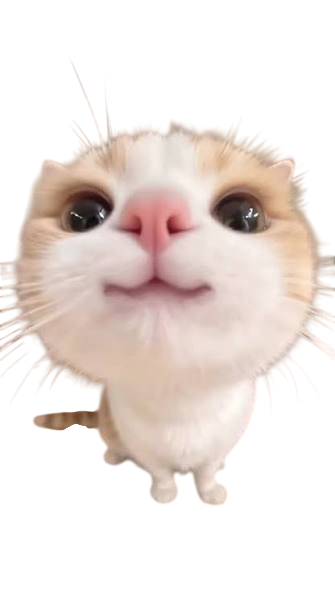
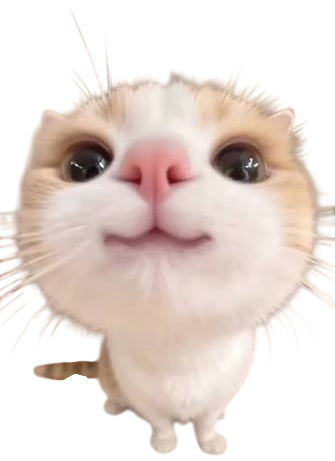
Simplify present box, use real cat photo, and add GitHub Pages deploy
- Replace illustrated SVG placeholder with the uploaded cute_cat.png photo
  (trimmed to its visible bounds).
- Rebuild the box as two pieces (container + lid) instead of a container/
  back/front trio; the odd full-height panel behind the cat is gone, and
  a subtle inner-shadow lip on the container suggests depth instead.
- Enlarge and reposition the paw-heart emoji so it reads as the cat's own
  hands resting on the box rim.
- Drop the emoji from the Yes button.
- Add a GitHub Actions workflow to publish the static site to GitHub Pages
  on every push to this branch.

diff --git a/style.css b/style.css
@@ -214,8 +214,8 @@ body {
 
 .present {
   position: relative;
-  width: min(62vw, 280px);
-  height: min(56vw, 250px);
+  width: min(64vw, 300px);
+  height: min(70vw, 330px);
   transform: translateY(-140vh);
 }
 
@@ -275,21 +275,12 @@ body {
   }
 }
 
-.box-back {
-  position: absolute;
-  inset: 0;
-  z-index: 1;
-  background: linear-gradient(135deg, #ff4d70, #d81e56);
-  border-radius: 14px;
-  box-shadow: inset 0 -10px 22px rgba(0, 0, 0, 0.15);
-}
-
 .cat-wrap {
   position: absolute;
   left: 50%;
-  bottom: 10%;
-  width: 78%;
-  z-index: 2;
+  bottom: 0%;
+  width: 72%;
+  z-index: 1;
   transform: translate(-50%, 50px) scale(0.75);
   opacity: 0;
 }
@@ -323,10 +314,10 @@ body {
 .paw-heart {
   position: absolute;
   left: 50%;
-  bottom: 30%;
+  bottom: 22%;
   transform: translate(-50%, 10px) scale(0);
-  font-size: clamp(26px, 7vw, 40px);
-  z-index: 6;
+  font-size: clamp(46px, 16vw, 88px);
+  z-index: 3;
   filter: drop-shadow(0 4px 6px rgba(120, 10, 40, 0.35));
 }
 
@@ -362,16 +353,28 @@ body {
   }
 }
 
-.box-front {
+.box-container {
   position: absolute;
   left: 0;
   right: 0;
   bottom: 0;
-  height: 42%;
-  z-index: 4;
+  height: 26%;
+  z-index: 2;
   background: linear-gradient(135deg, #ff5878, #c81749);
-  border-radius: 0 0 14px 14px;
+  border-radius: 8px 8px 16px 16px;
   box-shadow: 0 6px 14px rgba(0, 0, 0, 0.15), inset 0 6px 10px rgba(255, 255, 255, 0.15);
+}
+
+.box-container::before {
+  content: '';
+  position: absolute;
+  left: 5%;
+  right: 5%;
+  top: 0;
+  height: 26%;
+  background: linear-gradient(180deg, rgba(60, 0, 20, 0.4), rgba(60, 0, 20, 0));
+  border-radius: 6px 6px 0 0;
+  pointer-events: none;
 }
 
 .ribbon-v {
@@ -386,11 +389,11 @@ body {
 
 .box-lid {
   position: absolute;
-  left: -5%;
-  right: -5%;
-  top: -16%;
-  height: 36%;
-  z-index: 5;
+  left: -6%;
+  right: -6%;
+  top: -6%;
+  height: 82%;
+  z-index: 4;
   transform-origin: bottom center;
 }
 

diff --git a/index.html b/index.html
@@ -22,7 +22,7 @@
       <div class="question-card">
         <h1 id="question-title">Do you want to play with me this evening?</h1>
         <div class="answer-row">
-          <button id="yesBtn" class="btn yes-btn" type="button">Yes 💕</button>
+          <button id="yesBtn" class="btn yes-btn" type="button">Yes</button>
           <button id="noBtn" class="btn no-btn" type="button">No</button>
         </div>
       </div>
@@ -36,15 +36,11 @@
         <div class="present" id="present">
           <div class="box-shadow"></div>
 
-          <div class="box-back">
-            <div class="ribbon-v back-ribbon"></div>
-          </div>
-
           <div class="cat-wrap" id="catWrap">
-            <img src="assets/cat.svg" alt="cute fluffy cat" id="catImg" class="cat-img" draggable="false">
+            <img src="assets/cute_cat.png" alt="cute fluffy cat" id="catImg" class="cat-img" draggable="false">
           </div>
 
-          <div class="box-front">
+          <div class="box-container">
             <div class="ribbon-v"></div>
           </div>
 
